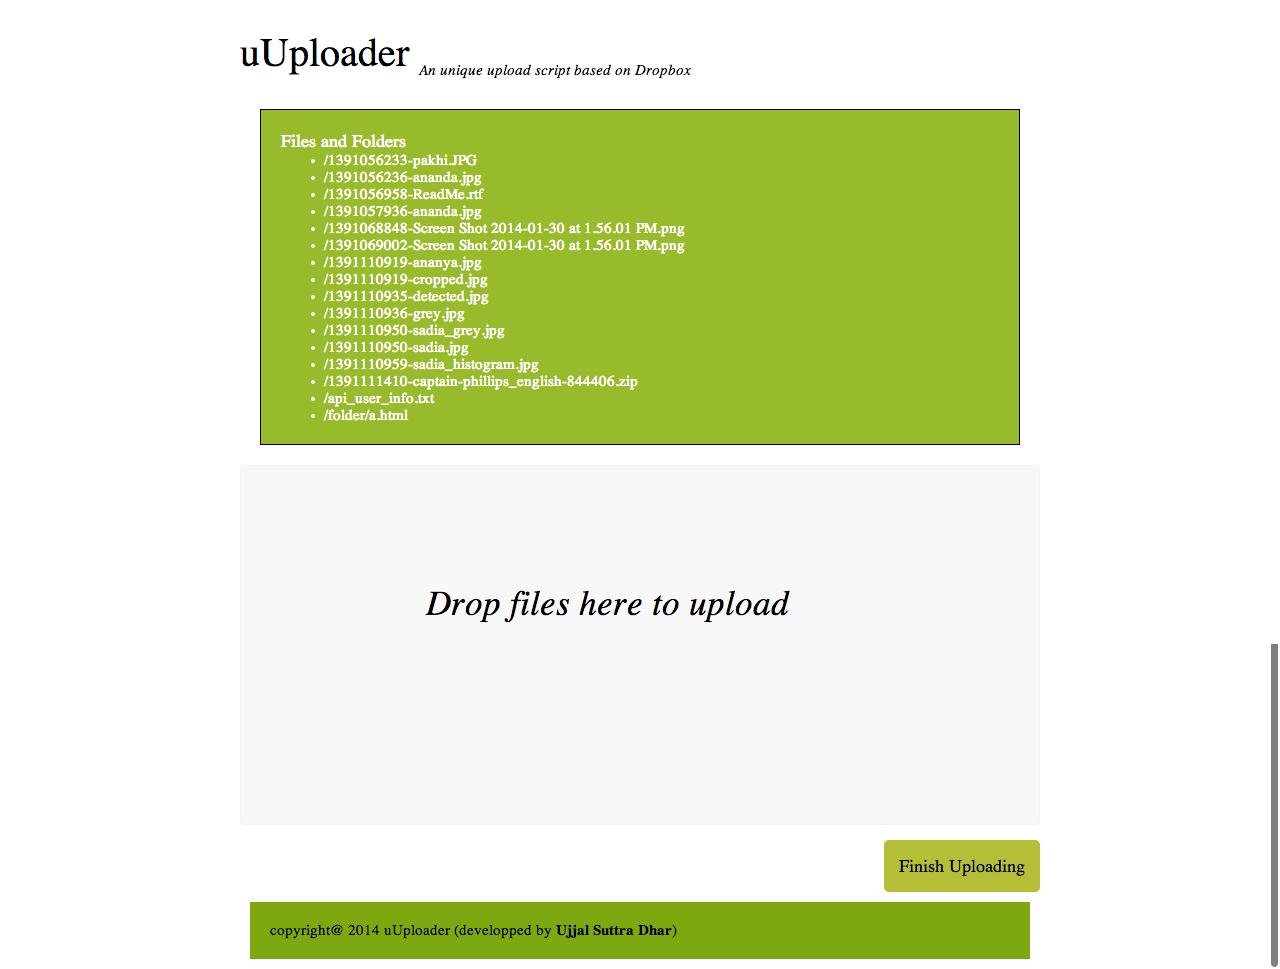
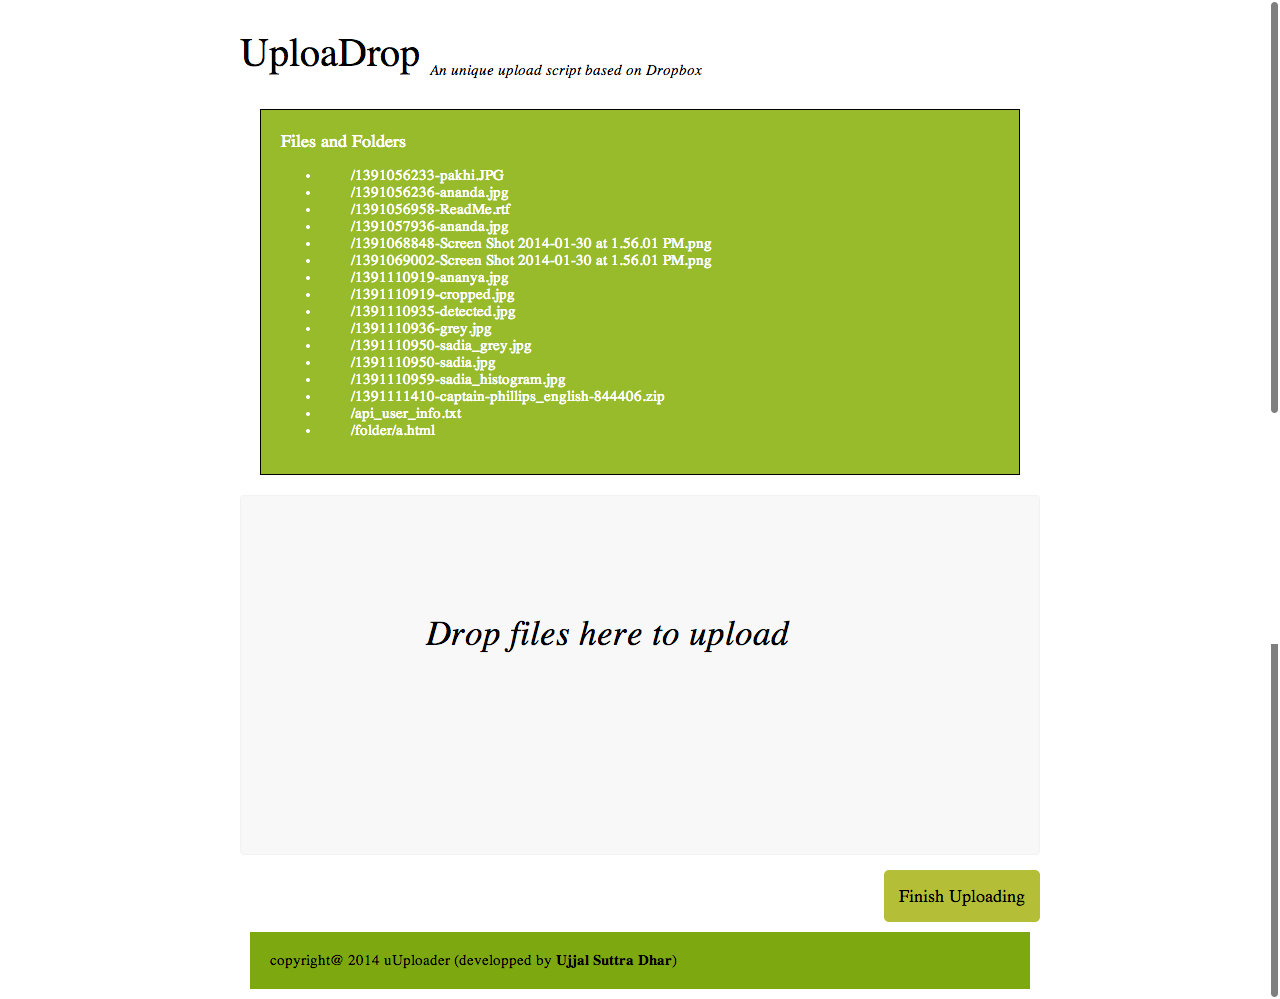
mm

diff --git a/index.php b/index.php
@@ -46,7 +46,7 @@ function getfile($path,$dbxClient){
 
 <html>
 <head>
- <title>uUploader</title>
+ <title>UploaDrop</title>
  <link rel="stylesheet" href="style.css" type="text/css" media="screen" />
  <link rel="stylesheet" href="dropzone.css" type="text/css" media="screen" />
 
@@ -54,7 +54,7 @@ function getfile($path,$dbxClient){
 <body>
    <header>
 	   <div id="header">
-	       uUploader
+	       UploaDrop
 	       <sub>An unique upload script based on Dropbox</sub>
 	   </div>
    </header>
